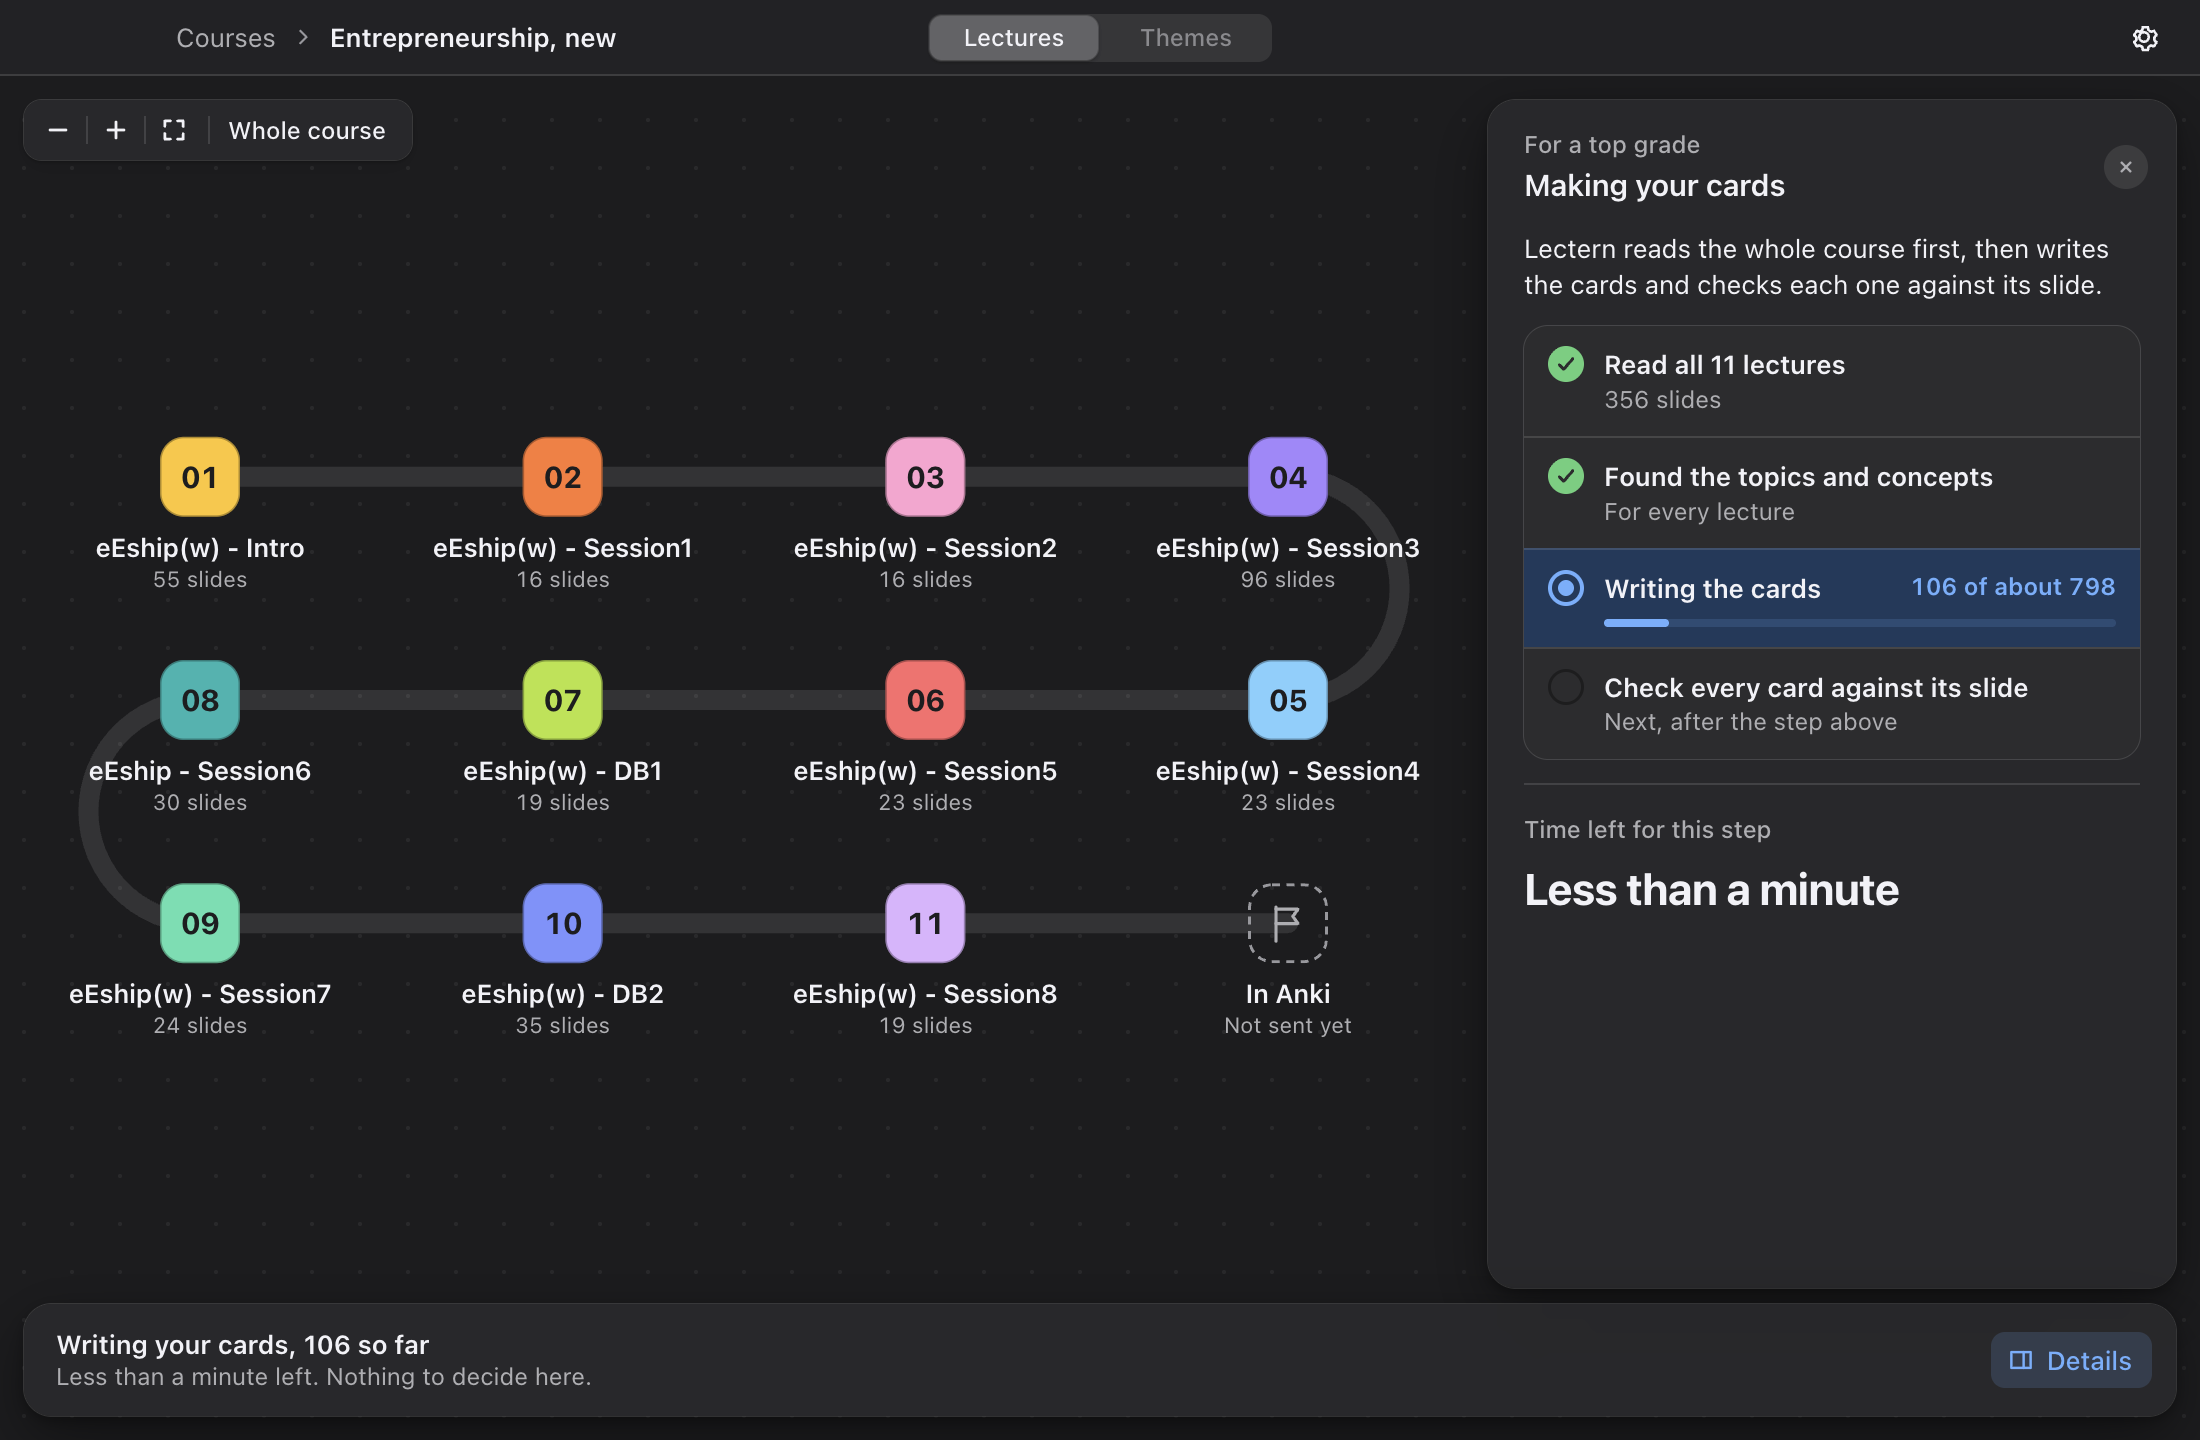
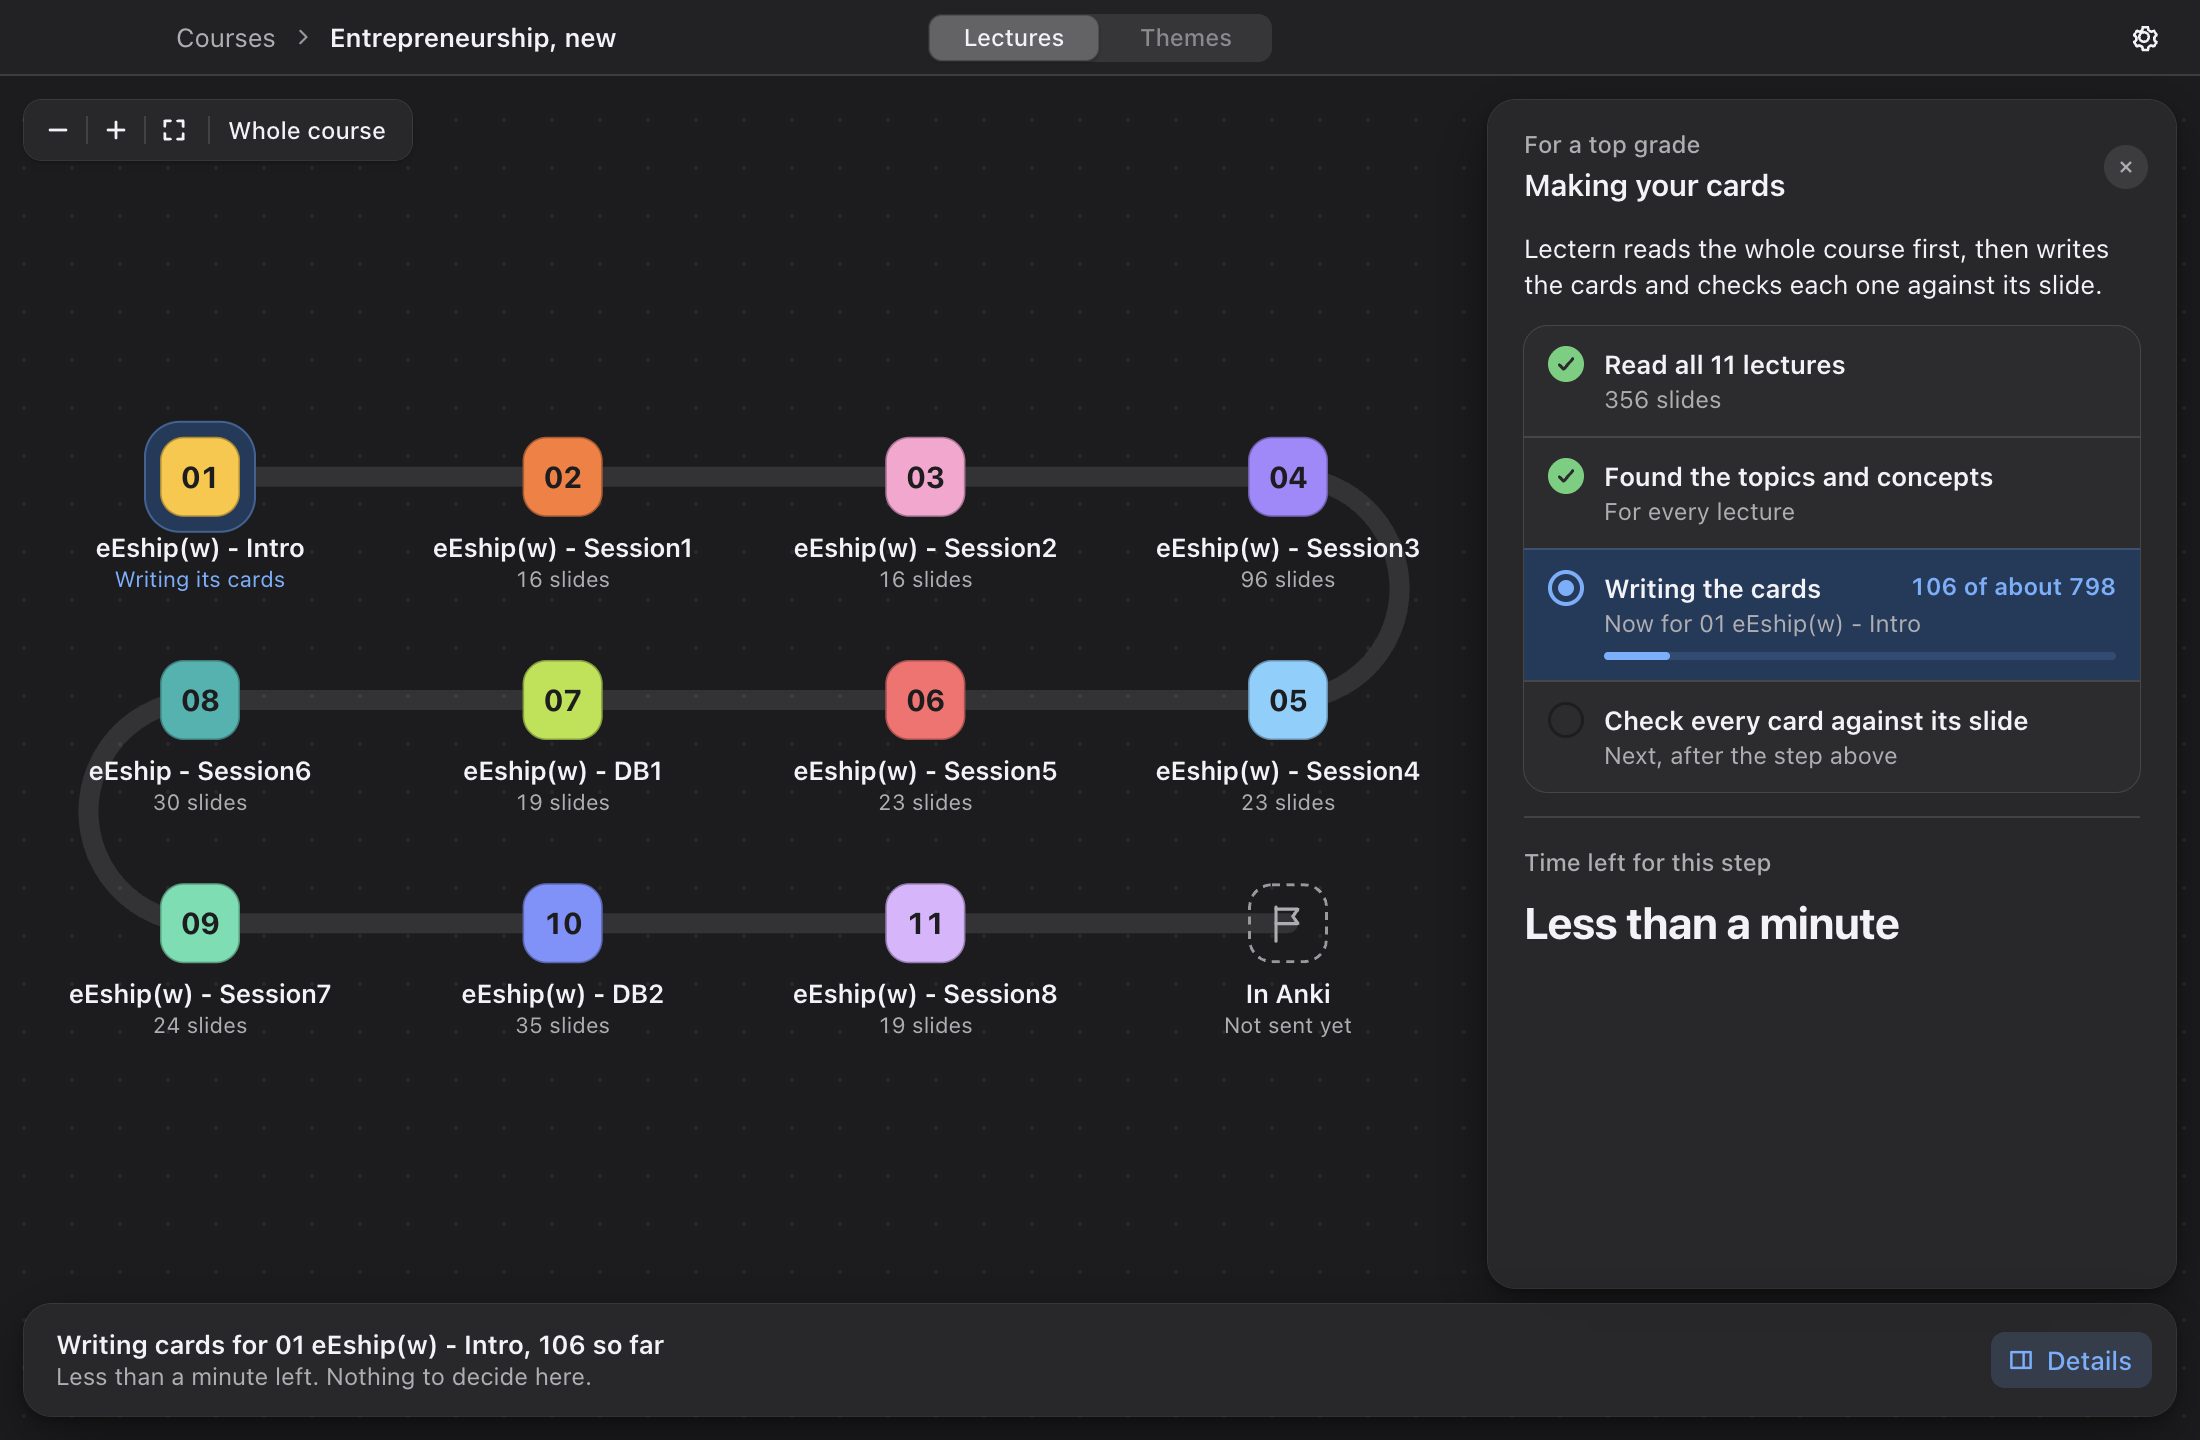
docs(v3): report and pictures after the estimate and progress changes

diff --git a/docs/v3/prototype-report.md b/docs/v3/prototype-report.md
@@ -175,10 +175,9 @@ No criterion was given up on.
 - **Content.** Admin and recap slides get cards ("At what time does the class start?"), 295
   concepts for 356 slides is too fine, and lecture titles are cut at 32 characters. Engine
   work, reported to the engine session and now first on its list.
-- **The card estimate shown to the student is too high**: "About 1068 cards" for decks that
-  give about 600 to 660. Reported to the engine session.
-- **The run screen cannot show which lecture is being written.** The engine's events carry
-  counts per phase only. The canvas frame with "writing now" on a stop is not built.
+- **The run screen marks the lecture being worked on, but not the finished ones.** Topics
+  and card counts of a lecture appear only when the whole run has ended, because the engine
+  saves nothing before that. The canvas shows them arriving lecture by lecture.
 - **Dense lectures stay cramped.** Topic pills are cut short ("Support net..."), and in a
   51 concept lecture about half the concepts show as dots only at the fitted zoom.
 - **Not built, by scope:** sending to Anki (the flag stop always says "Not sent yet" and there
@@ -186,6 +185,21 @@ No criterion was given up on.
   the feedback loop. Editing, removing and adding a card are in the brief's base product but
   not in this goal, so they are missing too.
 - **In fake mode** the settings say the key is stored, while it is only kept in memory.
+
+## After the first version of this report
+
+The engine session closed two gaps I had reported, and I used both the same day (engine
+`73347f8`):
+
+- **The card estimate** is fitted to the two real runs: the files screen now says "About 683
+  cards" for the 11 decks instead of 1068.
+- **Progress names the lecture.** During a run the stop of the lecture being worked on is
+  marked on the map ("Writing its cards"), and the run panel and the bottom bar name it.
+  Pictures 04 and 05 are retaken.
+
+Checked on the working tree after that change: app typecheck and lint clean, 53 unit tests and
+the Playwright test pass. Not rerun in a clean checkout, because the engine session has
+unfinished edits in `packages/engine` again.
 
 ## Decisions I took
 
@@ -216,8 +230,8 @@ No criterion was given up on.
 2. **App: the rest of the base product.** Sending through the add-on with the card design
    offered once before the first send, editing, removing and adding a card, a real build
    started from the app with a real key, and committed tests for adding a lecture later.
-   Alongside: an honest card estimate and per-lecture progress events from the engine, so the
-   run screen can show what the canvas draws.
+   Alongside: lectures that show their topics as soon as their cards are written, which
+   needs the engine to save or report a lecture before the whole run ends.
 
 Done when the 11 lecture course goes from the app into Anki, Steffen prefers or cannot tell
 apart a sample of its cards from his reference deck, and adding lecture 12 creates only new

diff --git a/docs/v3/HANDOFF.md b/docs/v3/HANDOFF.md
@@ -67,8 +67,7 @@ Details and what is unverified: `docs/v3/prototype-report.md`.
    real runs. Open with Steffen: a calibrated slide label, a rule in the preset, or both.
 3. **The app after the prototype:** sending through the add-on with the card design offered
    once before the first send, editing, removing and adding a card, a real build started from
-   inside the app, and tests for adding a lecture later. From the engine it needs an honest
-   card estimate and progress per lecture for the run screen.
+   inside the app, and tests for adding a lecture later.
 4. **Then:** evals on the two extra courses.
 
 Paid runs: only the engine session starts them (agreed between the engine and the prototype
